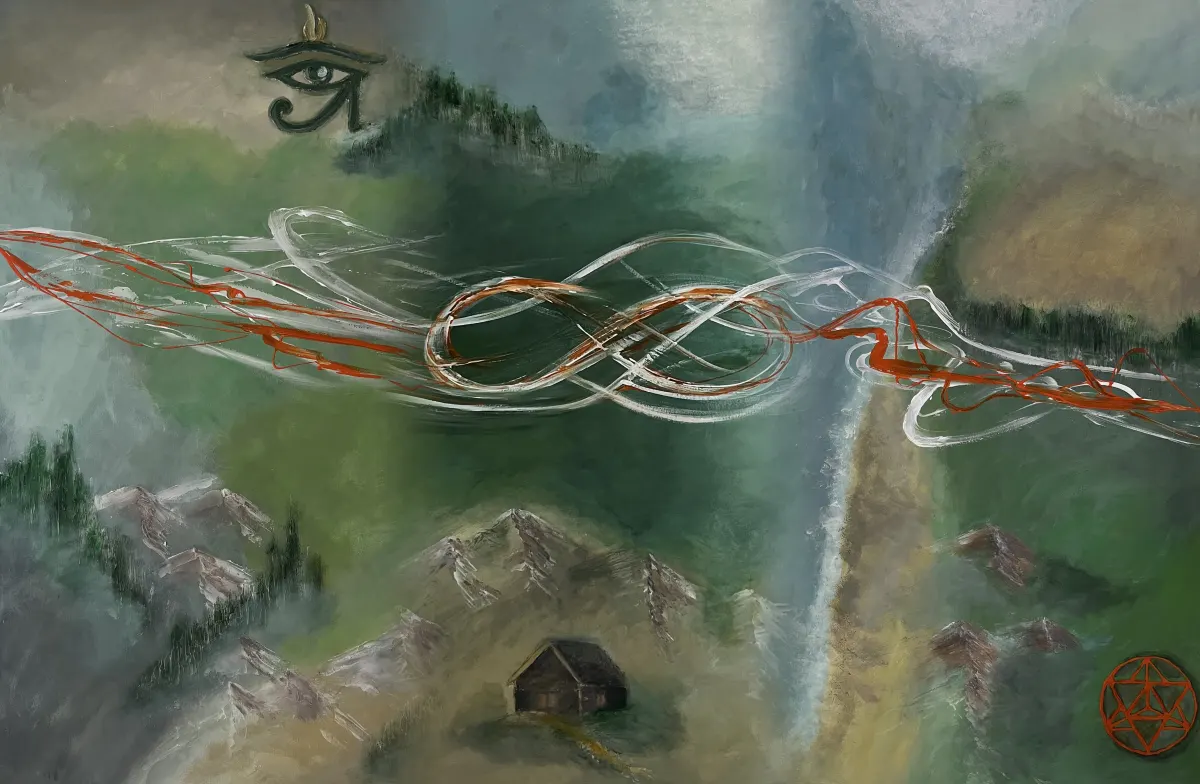
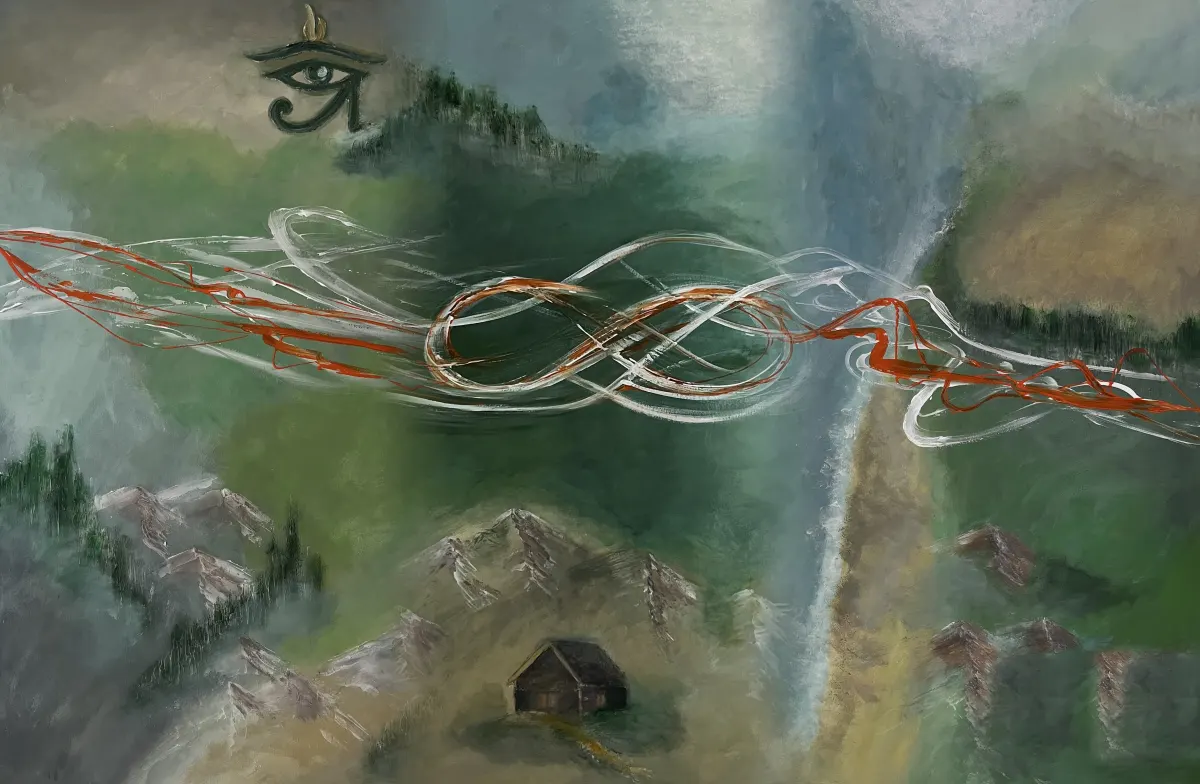
About photo shows the painting down to the chair legs; Who-we-are fits one laptop screen, thoughts in the studio frame, red sign removed from the painting

Changed region(s): [[0.8942, 0.8265, 1.0, 0.9796]]

diff --git a/index.html b/index.html
@@ -17,7 +17,7 @@
 <link rel="preconnect" href="https://fonts.googleapis.com">
 <link rel="preconnect" href="https://fonts.gstatic.com" crossorigin>
 <link href="https://fonts.googleapis.com/css2?family=Cormorant+Garamond:ital,wght@0,500;0,600;0,700;1,500;1,600&family=Playfair+Display:wght@400;600;700&family=Marck+Script&display=swap" rel="stylesheet">
-<link rel="stylesheet" href="style.css?v=202611032132">
+<link rel="stylesheet" href="style.css?v=202611032143">
 <script>
   // Motion unless the visitor asked for less; the logo intro on every load; language: saved choice, else the browser's
   (function () {
@@ -243,12 +243,12 @@
       <h2 class="who-title" data-en="Who we are">Хто ми</h2>
       <div class="who-cols">
         <div class="who-col">
-          <div class="who-item"><span class="who-num">01</span><p class="stmt" data-en="&lt;b&gt;We are a team&lt;/b&gt; of people, each creating their own part of the whole: some work directly with a person and their inner world, someone shapes the visual concept, someone takes care of details that go unnoticed, yet create a sense of wholeness."><b>Ми — команда</b> людей, кожен із яких створює свою частину цілого: хтось працює безпосередньо з людиною та її внутрішнім світом; хтось формує візуальну концепцію; хтось відповідає за деталі, які непомітні, але саме вони створюють відчуття цілісності.</p></div>
-          <div class="who-item"><span class="who-num">02</span><p class="stmt" data-en="We believe a good space is born where professionalism meets attention to detail. So our team is &lt;b&gt;not about sameness, but about diversity working together.&lt;/b&gt;">Ми віримо, що якісний простір народжується там, де професіоналізм зустрічається з увагою до деталей. Тому наша команда — <b>не про однаковість, а про різноманітність, яка працює разом.</b></p></div>
+          <div class="who-item frame"><div class="frame-inner who-inner"><span class="who-num">01</span><p class="stmt" data-en="&lt;b&gt;We are a team&lt;/b&gt; of people, each creating their own part of the whole: some work directly with a person and their inner world, someone shapes the visual concept, someone takes care of details that go unnoticed, yet create a sense of wholeness."><b>Ми — команда</b> людей, кожен із яких створює свою частину цілого: хтось працює безпосередньо з людиною та її внутрішнім світом; хтось формує візуальну концепцію; хтось відповідає за деталі, які непомітні, але саме вони створюють відчуття цілісності.</p></div></div>
+          <div class="who-item frame"><div class="frame-inner who-inner"><span class="who-num">02</span><p class="stmt" data-en="We believe a good space is born where professionalism meets attention to detail. So our team is &lt;b&gt;not about sameness, but about diversity working together.&lt;/b&gt;">Ми віримо, що якісний простір народжується там, де професіоналізм зустрічається з увагою до деталей. Тому наша команда — <b>не про однаковість, а про різноманітність, яка працює разом.</b></p></div></div>
         </div>
         <div class="who-col">
-          <div class="who-item"><span class="who-num">03</span><p class="stmt" data-en="We keep learning, take supervision, discuss difficult cases and grow — because for us &lt;b&gt;professionalism has no finish line.&lt;/b&gt;">Ми постійно навчаємося, супервізуємося, обговорюємо складні випадки й розвиваємося — тому що <b>професійність для нас не має кінцевої точки.</b></p></div>
-          <div class="who-item"><span class="who-num">04</span><p class="stmt" data-en="We grow as a team to create a better space for those who trust us. And it is all about one thing: &lt;b&gt;an atmosphere you want to stay in.&lt;/b&gt;">Ми ростемо як команда, щоб створювати якісніший простір для тих, хто нам довіряє. І все це — про одне: <b>атмосферу, у якій хочеться залишитися.</b></p></div>
+          <div class="who-item frame"><div class="frame-inner who-inner"><span class="who-num">03</span><p class="stmt" data-en="We keep learning, take supervision, discuss difficult cases and grow — because for us &lt;b&gt;professionalism has no finish line.&lt;/b&gt;">Ми постійно навчаємося, супервізуємося, обговорюємо складні випадки й розвиваємося — тому що <b>професійність для нас не має кінцевої точки.</b></p></div></div>
+          <div class="who-item frame"><div class="frame-inner who-inner"><span class="who-num">04</span><p class="stmt" data-en="We grow as a team to create a better space for those who trust us. And it is all about one thing: &lt;b&gt;an atmosphere you want to stay in.&lt;/b&gt;">Ми ростемо як команда, щоб створювати якісніший простір для тих, хто нам довіряє. І все це — про одне: <b>атмосферу, у якій хочеться залишитися.</b></p></div></div>
         </div>
       </div>
     </div>
@@ -706,7 +706,7 @@
   </div>
 </dialog>
 
-<script src="main.js?v=202611032132"></script>
+<script src="main.js?v=202611032143"></script>
 <nav class="vswitch" aria-label="Версія сайту"><a href="v1/index.html">До правок</a><a href="index.html" class="on" aria-current="page">З правками</a></nav>
 </body>
 </html>

diff --git a/style.css b/style.css
@@ -121,8 +121,8 @@ html.intro-out .intro{opacity:0;pointer-events:none}
 .about-text{display:flex;flex-direction:column;gap:18px}
 .about-text p{font-size:22px;color:var(--text)}
 .tags{display:flex;flex-wrap:wrap;gap:10px;margin-top:6px}
-.studio-card{display:flex;flex-direction:column;gap:22px;max-width:440px;justify-self:center;width:100%}
-.studio-card img{width:100%;aspect-ratio:1/1.08;object-fit:cover;object-position:50% 12%;border-radius:32px;box-shadow:var(--depth)}
+.studio-card{display:flex;flex-direction:column;gap:22px;max-width:420px;justify-self:center;width:100%}
+.studio-card img{width:100%;aspect-ratio:3/4.1;object-fit:cover;object-position:50% 34%;border-radius:32px;box-shadow:var(--depth)}
 .studio-info{display:flex;flex-direction:column;gap:10px;font-size:20px;font-weight:600;margin-top:10px;padding-top:22px;border-top:1px solid var(--beige)}
 .studio-info a{display:flex;align-items:center;gap:12px;text-decoration:none}
 .studio-info svg{flex-shrink:0;color:var(--brown)}
@@ -184,17 +184,17 @@ html.intro-out .intro{opacity:0;pointer-events:none}
 /* ---------- 8. Хто ми ---------- */
 .heart-sec{background:#fff}
 /* One painting made of the studio's three canvases; the infinity stays open in the middle */
-.heart-sec{position:relative;isolation:isolate;padding:110px 24px;min-height:min(60vw,900px);display:flex;align-items:center;background:#3F5248 url('assets/who-panorama.webp') center/cover no-repeat}
+.heart-sec{position:relative;isolation:isolate;padding:56px 24px;min-height:min(calc(100svh - 76px),800px);display:flex;align-items:center;background:#3F5248 url('assets/who-panorama.webp') center/cover no-repeat}
 .heart-sec::before{content:"";position:absolute;inset:0;z-index:-1;background:linear-gradient(180deg,rgba(20,26,22,.28),rgba(20,26,22,.05) 30%,rgba(20,26,22,.05) 70%,rgba(20,26,22,.28))}
-.who-wrap{display:flex;flex-direction:column;align-items:center;gap:40px}
+.who-wrap{display:flex;flex-direction:column;align-items:center;gap:26px}
 .who-title{color:#FFF8EE;text-shadow:0 2px 16px rgba(0,0,0,.5)}
-.who-cols{display:grid;grid-template-columns:minmax(0,1fr) minmax(0,.75fr) minmax(0,1fr);width:100%}
-.who-col{display:flex;flex-direction:column;gap:26px}
+.who-cols{display:grid;grid-template-columns:minmax(0,1fr) minmax(0,.75fr) minmax(0,1fr);align-items:center;width:100%}
+.who-col{display:flex;flex-direction:column;gap:22px}
 .who-col:last-child{grid-column:3}
-.who-item{display:grid;grid-template-columns:58px 1fr;gap:14px;align-items:start;background:rgba(255,253,249,.92);-webkit-backdrop-filter:blur(8px);backdrop-filter:blur(8px);
-  border-radius:24px;padding:26px 26px 26px 22px;box-shadow:0 30px 50px -18px rgba(10,20,15,.55),0 8px 18px -6px rgba(10,20,15,.22)}
-.who-num{font-family:var(--num);font-size:38px;line-height:1;color:var(--line)}
-.who-item .stmt{font-size:19px;line-height:1.5;color:var(--text)}
+.who-item{--bw:10px;--lw:2.5px;--r:30px;--ri:21px;--lc:#2E3A33;filter:drop-shadow(0 22px 30px rgba(10,20,15,.45))}
+.who-inner{display:grid;grid-template-columns:50px 1fr;gap:12px;align-items:start;background:rgba(255,253,249,.95);border-radius:calc(var(--ri) - var(--lw));padding:22px 22px 22px 18px}
+.who-num{font-family:var(--num);font-size:34px;line-height:1;color:var(--line)}
+.who-item .stmt{font-size:18px;line-height:1.45;color:var(--text)}
 .who-item .stmt b{color:var(--ink)}
 
 /* ---------- 9. Founder ---------- */
@@ -466,7 +466,7 @@ form.ask .btn{height:56px}
   .who-col{gap:14px}
   .who-col + .who-col{margin-top:14px}
   .who-col:last-child{grid-column:auto}
-  .who-item{grid-template-columns:44px 1fr;padding:20px 18px}
+  .who-inner{grid-template-columns:40px 1fr;padding:18px 16px}
   .who-num{font-size:28px}
   .who-item .stmt{font-size:18px}
 
